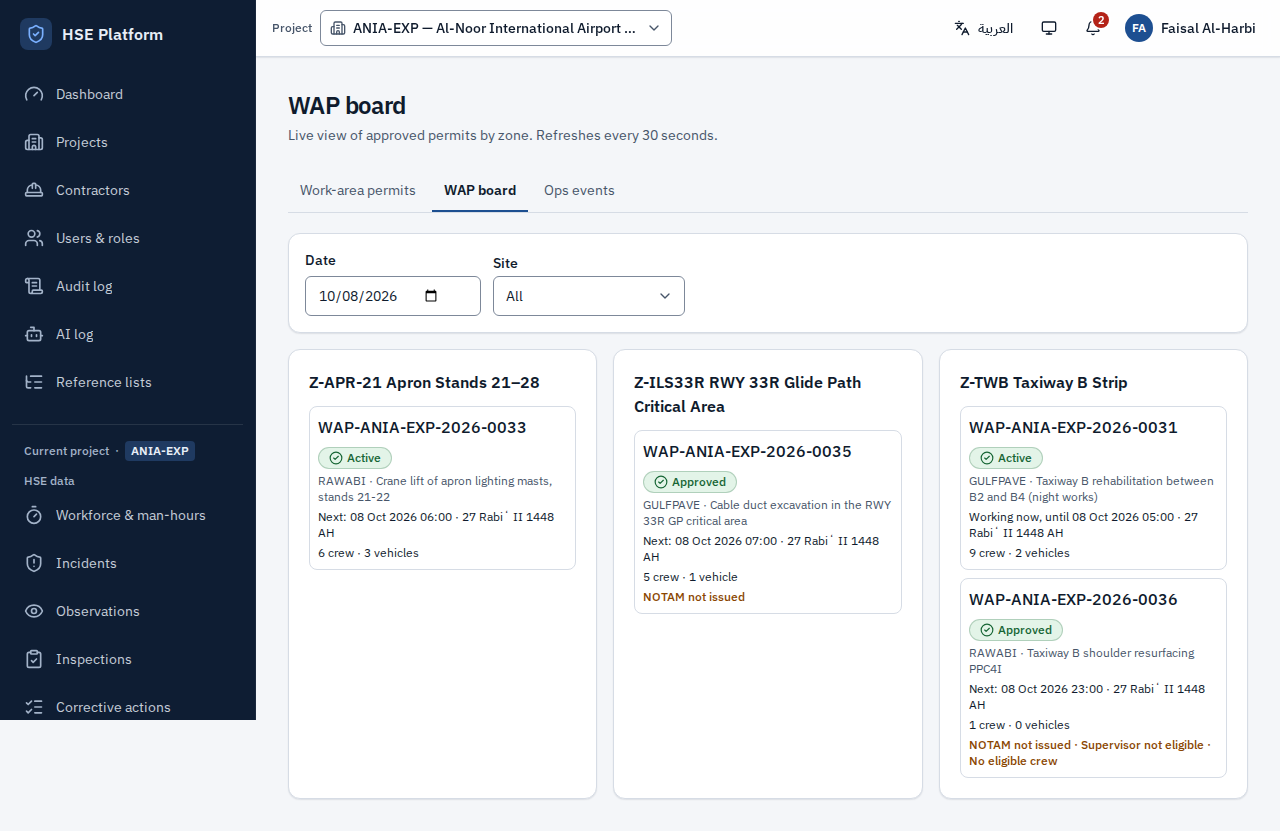
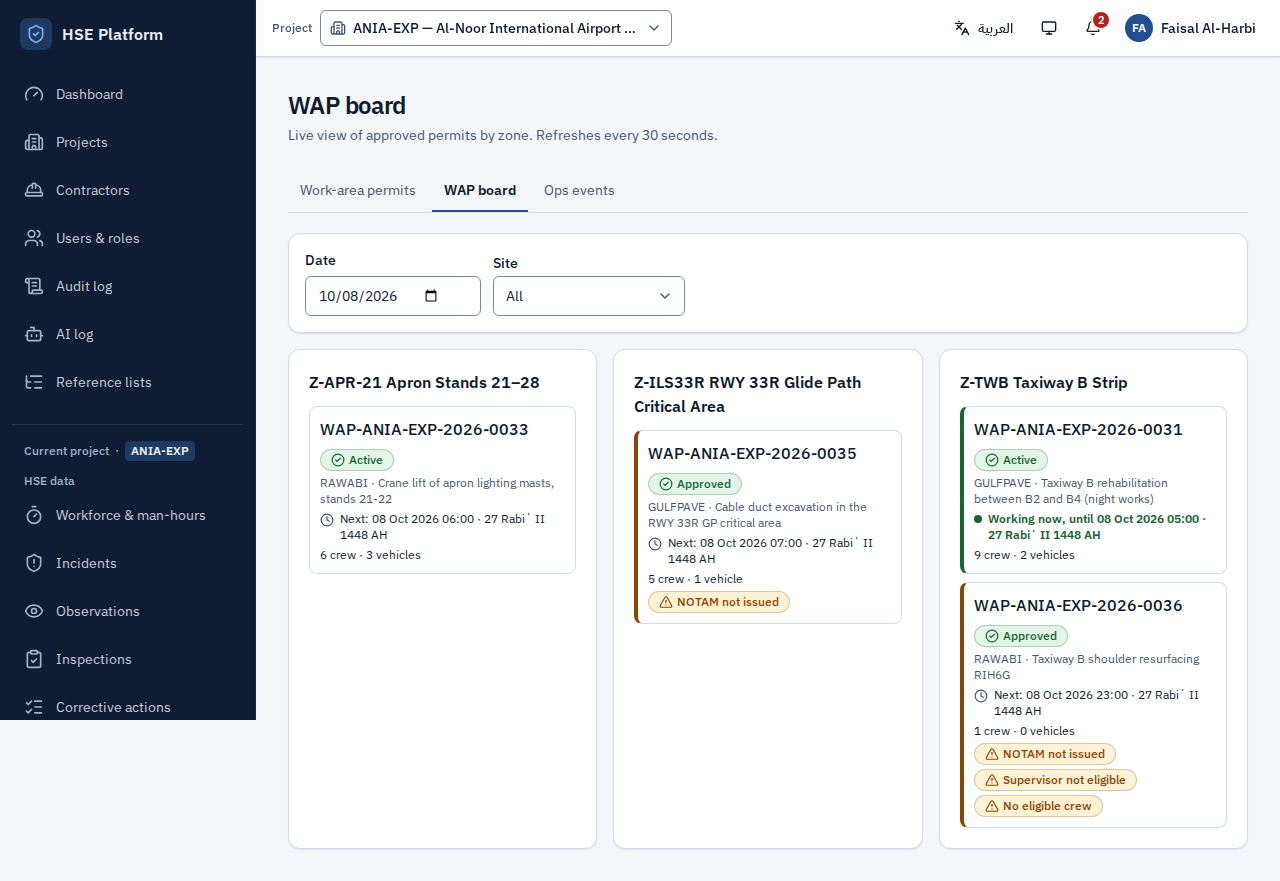
design: access permits design pass (gate verdicts, bilingual prints, RTL charts); fix seeded ADP vehicle classes
Claude-Session: https://claude.ai/code/session_019ePKhVEWcGdEt7YFu3vJZQ

diff --git a/backend/app/seed_access.py b/backend/app/seed_access.py
@@ -71,6 +71,7 @@ from app.core.access_enums import (
     SuspensionState,
     ValidityStatus,
     VehicleCategory,
+    VehicleClass,
     VehicleOwnerType,
     VehicleStatus,
     WapStatus,
@@ -1698,9 +1699,9 @@ def _adp_row(ctx: Ctx, a: AdpSpec) -> dict[str, Any]:
         "deployment_id": p.did,
         "engagement_id": eng.id if eng else None,
         "category": a.category,
-        "vehicle_classes": ["light_vehicle", "pickup"]
+        "vehicle_classes": [VehicleClass.light]
         if p.trade == T.driver
-        else ["paver", "roller", "excavator"],
+        else [VehicleClass.heavy, VehicleClass.special_plant],
         "licence_issuer": LicenceIssuer.ksa,
         "licence_class": a.licence_class,
         "licence_expiry_date": a.licence,

diff --git a/backend/tests/test_access_misc.py b/backend/tests/test_access_misc.py
@@ -171,3 +171,11 @@ def test_worker_photo_rules_and_id_copy_capability(api: Api, db: Session) -> Non
         )
     )
     assert rows
+
+
+def test_seeded_adp_register_lists(api: Api, ids: Ids) -> None:
+    """Regression: seeded ADPs must use valid vehicle classes so the register serialises."""
+    pid = ids.project("ANIA-EXP")
+    res = api.as_("noura.qahtani").get(f"{API}/projects/{pid}/adps")
+    assert res.status_code == 200, res.text
+    assert res.json()["total"] > 0

diff --git a/docs/design/phase-2-findings.md b/docs/design/phase-2-findings.md
@@ -1,0 +1,47 @@
+# Phase 2 design pass: UX findings
+
+Scope: the Phase 2 site / airport access screens — the gate check screen (`/gate`: scanner, verdicts GRANTED / GRANTED_WITH_WARNING / DENIED / PENDING_* with countdown, admitted despite denial, device sign-in, offline), workers (masked ID and unmask dialog, deployment, access card), inductions (signature pad), zone profiles, airport pass setup / applications / passes, ADPs and offences, vehicles, AVPs and sticker, NOTAM requests, obstacle clearances (live preview), WAPs (board, print, ops events), credential lifecycle actions, gates and devices, access settings, gate log, and the dashboard access band with charts C10–C12. Shared components were changed only where a Phase 2 screen needed it and stay consistent with Phases 0–1.
+
+Method: the app ran as a production build against the real backend on a fresh, migrated and seeded database (`hse_design`, `app.seed` incl. the Phase 2 seed). I signed in as Faisal Al-Harbi (HSE Manager) on ANIA-EXP and used the gate screen as a user with `gate.check` on the seeded gates G-ANIA-01 (site gate) and G-AAP3 (airside, three zones). Real verdicts came from seeded subjects while WAP-0031's night window was open: GRANTED (WKR-000001 at the main gate), GRANTED_WITH_WARNING (WAP-0031 crew at Z-TWB, `HOOK_NOT_AVAILABLE`), DENIED with one to five reasons (VEH-0003; WKR-000001 at Z-APR-21), PENDING_ESCORT (WKR-000004). Playwright took the gate in all 8 combinations (EN/AR × desktop 1366 / phone 390 × light/dark) and 36 other screens in 4 (EN desktop light, AR desktop dark, AR phone light, EN phone dark), plus print-media renders and PDFs of the access card, AVP sticker and WAP print. The HSE Officer and Contractor HSE Rep views were covered by the existing e2e role tests; this pass did not change any role-dependent rendering. I loaded the dataviz guidance before touching C10–C12.
+
+Screenshots (`docs/screenshots/phase-2/design/`, 12 files): 01/02 gate "granted with a note" EN phone light, 03/04 gate DENIED (5 reasons) AR phone dark, 05/06 access card (screen before, print after), 07/08 WAP print (EN screen before, AR print after), 09/10 AVP sticker, 11/12 C11 denial reasons in Arabic.
+
+Effort: **S** < 1 h · **M** ≤ 1 day · **L** a redesign that needs the user's approval.
+
+## Ranked findings
+
+| # | Impact | Problem | Where / evidence | Fix | Effort | Status |
+|---|---|---|---|---|---|---|
+| 1 | High | Every clean airside scan shows a full amber panel with an exclamation mark and "GRANTED WITH WARNING" on two lines, then an amber "Check not available yet" card. Until Phase 5 that is *every* airside entry, so guards see a warning on every normal scan (alarm fatigue), and the word that matters ("granted") is lost | `01-before-gate-granted-note-en-mobile-light.png` | The panel stays amber (spec colour) but leads with a **tick** and **GRANTED** in the largest type, then a small "With a note — see below" pill. The `HOOK_NOT_AVAILABLE` reason is shown as a calm neutral **note** (info icon, grey), not an amber warning; real warnings (e.g. expiring in 7 days) stay amber. Reasons are ordered deny → warning → note, and each has a screen-reader prefix (refusal / warning / note) | M | Done |
+| 2 | High | On a phone the verdict sits below the gate and zone pickers, and the fixed thumb bar covers the person card, "Next scan" and "Admitted despite denial" — the guard must scroll with one hand to act | `03-before-gate-denied-ar-mobile-dark.png`, `before/gate-*-mobile-*` | While a result is shown the pickers are hidden (the verdict repeats direction · gate · zone). The result actions are portalled into the thumb bar (56 px buttons) above direction / manual entry / scan. The page reserves the bar's measured height, and the bar respects the phone's safe area | M | Done |
+| 3 | High | Dark mode was half-broken on the gate: reason cards, the "admission recorded" note and the WAP window colours used Tailwind `dark:` classes, which follow the OS, not the app's theme toggle — light pink cards on a dark screen (and the reverse with OS dark + app light) | `before/gate-denied-many-en-mobile-dark.png` | All gate colours now come from tokens (status pairs for reasons, new verdict tokens for the solid panels). No `dark:` classes remain in the frontend | S | Done |
+| 4 | High | Print views were not fit for submission: the access card had no title, no project and a two-calendar date that wrapped; the AVP sticker title was Arabic-only on an Arabic screen; the WAP print was English-only with the status as plain text, no project and no bilingual labels; on a dark screen the cards showed dark placeholders | `05-before-…`, `07-before-…`, `09-before-…` | New shared `AccessPrintHeader` (platform mark, project code and name, title EN on the left / AR on the right; `wide`, `narrow`, `card` variants) and `BiLabel` (bilingual "EN / AR" labels from `accessPrint.*` "EN\|AR" strings). Access card is ID-1 size (86 × 54 mm), fixed LTR layout, both names, worker no., employer, QR, printed ref on a ruled strip, one-calendar issue date, Back button. Sticker: stacked bilingual header, "Scan at the gate", bilingual field list incl. areas (— when none). WAP: bilingual header, big WAP no., boxed status, valid dates, QR panel, bilingual field labels, both scope texts, bilingual crew table header, bilingual footer, full-width on paper. A `.paper` class keeps light tokens on these surfaces in dark mode | M | Done |
+| 5 | Medium | Hard-coded Tailwind colours (`bg-green-700`, `bg-amber-400`, `bg-red-700`, `bg-blue-800`, `bg-slate-*`) on the gate screen, outside the token system | `gate-check.tsx` (58 occurrences) | Verdict tokens in `tokens.css` (`--verdict-granted/note/denied/pending/neutral` + `-fg`), mapped in `globals.css`. They are theme-independent so a verdict looks the same on every gate device; contrast of text on each fill 6.6–10.0:1 | S | Done |
+| 6 | Medium | Gate log: every airside row carries an amber "Check available in a later phase" chip, and "Granted with warning" is an amber badge with an info icon — the log looks like a list of problems | `before/gate-log-en-desktop-light.png` | `ReasonChips`: `HOOK_NOT_AVAILABLE` is a neutral chip with an info icon (also on WAP crew and every other register that uses it); eligibility rows no longer tint hook items amber. The log's "Granted with warning" badge keeps amber but uses a tick (`granted_note` status key) | S | Done |
+| 7 | Medium | Gate log on phones: time / subject / result cells split their parts into separate grid rows of the stacked card, so "Person", the worker no. and the name were scattered and misaligned in Arabic | `before/gate-log-ar-mobile-light.png` | One wrapper per cell (flex column, start-aligned); the subject ref is an isolated `<bdi>`; "Admitted despite denial" gets a shield icon | S | Done |
+| 8 | Medium | C11 "Gate denial reasons" (horizontal bars) is upside-down in Arabic: the largest reason at the bottom. The RTL row reversal meant for time axes also flipped the category order; the shared chart table relied on a second reversal | `11-before-c11-denials-ar-dark.png` | `ChartRenderer` keeps one row order; only vertical (x-axis) plots are reversed in RTL, horizontal bars keep largest-first and mirror only the value axis. Applies to every horizontal bar chart | S | Done |
+| 9 | Medium | WAP board: "Working now" looks like every other line, and blockers on an Approved WAP are a small amber text line | `before/wap-board-en-desktop-light.png` | Working-now cards get a green start bar and a live dot with bold text; next-window lines a clock icon; blockers are amber chips with a warning icon and an amber start bar on the card | S | Done |
+| 10 | Medium | Direction In/Out was shown by fill colour only; the camera close button was 36 px | Gate thumb bar | In/Out have their own icons and a tick on the selected one, 48 px tall; camera close is 44 px | S | Done |
+| 11 | Medium | "Admitted despite denial" was a solid red button the same size and weight as "Next scan", next to it — easy to hit by mistake, and it reads as the primary action | Gate DENIED | Red-outlined secondary button with a shield icon; "Next scan" carries a draining progress line for the 30 s auto-clear and the countdown on a second line (no clipping in Arabic) | S | Done |
+| 12 | Low | Signature pad: a 128 px dashed box on phones with no baseline | Inductions › Record induction | 160 px on phones (128 px from `sm`), a signing baseline with "×", solid border once signed, red border on error; still white paper with a dark pen in dark mode | S | Done |
+| 13 | Low | Dashboard access band: "Ops suspension in force: Yes" was a red chip with text only | Access band | Octagon-alert icon in the chip | S | Done |
+| 14 | Low | Offline screen retry button was a hard-coded white box | Gate offline | Surface-token button, 56 px | S | Done |
+| 15 | Medium | Access settings: the hook requirement lists show every ADP category, every one of ~25 vehicle categories and every crew role with an empty picker each (≈ 6,000 px of mostly "None") | `before/settings-en-desktop-light.png` | Show only categories that have a requirement, with "Add requirement for…" to pick another; collapse each section | L | Proposal P10 |
+| 16 | Medium | The gate verdict colour for "granted with a note" is amber by spec. Even with the tick and "GRANTED" headline, a fully amber screen on every airside scan until Phase 5 is a lot of amber | Gate | Option for the HSE Manager: a green panel with an amber band for the note (the result would then look like GRANTED with an extra line). Changes the spec's colour semantics, so it needs a decision | L | Proposal P11 |
+| 17 | Medium | Register rows and detail fields still wrap the two-calendar dates (gate log time column 4 lines, WAP current/next window) | Gate log, WAP detail, pass application | Phase 0 proposal **P1** (two-line dates), still the main cause of tall rows | L | Proposal P1 |
+| 18 | Low | Long action rows on pass applications (two red buttons side by side: Record refusal, Withdraw) and WAP detail on phones | Pass application, WAP detail | Phase 0 proposal **P2** (sticky phone action bar with a menu) | L | Proposal P2 |
+
+Not changed on purpose:
+- The verdict colours themselves (GRANTED green, GRANTED_WITH_WARNING amber, DENIED red, PENDING blue) follow the spec and the frontend notes; only their presentation changed. Verdict panels are identical in light and dark mode on purpose (a gate tablet should always look the same).
+- Reason codes (e.g. `WAP_MISSING`) stay visible in small muted text under each reason: the guard can read them to the HSE Officer on the phone.
+- Red buttons for ban worker, demobilise, refuse, withdraw and suspend stay (hard-to-undo actions, Phase 0 rule).
+- No business logic, API calls, permissions, KPI values or data were changed; no data field was added to or removed from any screen (the WAP print now shows both scope languages, both of which the page already loaded). All e2e selectors are unchanged.
+
+## Design system additions (Phase 2)
+
+- **Verdict tokens** (`--verdict-granted | note | denied | pending | neutral` and `-fg`), theme-independent solids for full-screen results. Use them only for gate/scan verdicts, never for badges or charts.
+- **Notes vs warnings**: a check that cannot run yet (`HOOK_NOT_AVAILABLE`) is a neutral note with an info icon. Amber is for things that are actually at risk (expiring, escorted, blockers).
+- **Thumb bar**: on one-handed screens the result actions live in the fixed bottom bar; the content reserves the bar's measured height.
+- **Print documents**: `AccessPrintHeader` (`wide` A4, `narrow` sticker, `card` ID-1) + `BiLabel` + `accessPrint.*` "EN|AR" strings; `.paper` keeps light tokens on paper surfaces. Phase 3 permits should reuse them together with the Phase 1 `@media print` rules.
+- **Charts**: horizontal bars keep their order in RTL (largest first); only vertical/time axes mirror.
+- **Status badge key** `granted_note` (amber with a tick).

diff --git a/docs/PROGRESS.md b/docs/PROGRESS.md
@@ -1,13 +1,14 @@
 # Progress
 
 ## Current
-- Phase: 2 — Site / Airport access permits
-- Module: site & airport access permits (spec `docs/specs/2-access-permits.md`)
-- Step: Backend Phase 2 stage 2 done (contract 0.3.1, frontend issues fixed); Frontend Phase 2 built against v0.3.0, e2e green (104 passed); design pass next
+- Phase: 3 — Permit to Work (PTW)
+- Module: PTW (spec `docs/specs/3-ptw.md` v1.0)
+- Step: Contract
 
 ## Phase log
 - Phase 0 — Foundation: built, e2e green, design pass done (2026-10-05). The user asked to continue phase after phase without per-phase approval; open questions are collected below for a single review.
 - Phase 1 — Dashboard (with AI): built, e2e green, design pass done (2026-10-06).
+- Phase 2 — Site / Airport access permits: built, e2e green, design pass done (2026-10-07).
 
 ## Done
 
@@ -202,6 +203,15 @@
 - E2E (Playwright, real backend): full suite 71 passed, 2 skipped (screenshot specs, on demand) on a fresh migrated + seeded DB — 35 Phase 0 + 36 Phase 1 tests in `e2e/p1-*.spec.ts` — dashboard (AC55, 59, 60, 61, 62, 63, 64, filters in URL, drill-down, charts, mobile), AI (AC65, 72, 73, 74, 75, insufficient data, errors, Arabic) via a recorded SSE stream in `e2e/fixtures/ai-stream.ts` (typed against the contract, replayed with `page.route`; test-only), workforce/import (AC2, 3, 4, 7, 10), incidents/PDPL (AC13, 19, 20, 21, 29, 30, 31, 33), CAs (AC40, 41, 42, 43), observations (AC35) and create flows for observations, inspections, meetings, settings, reports. Phase 0 specs unchanged except a wait in AC12 (options load asynchronously).
 - Screenshots: `docs/screenshots/phase-1/` (run `SCREENSHOTS=1 npx playwright test e2e/screenshots-p1.spec.ts`).
 
+### Design pass — Phase 2 (UI/UX Designer)
+- Design pass: done (Phase 2). Findings, ranking and the Phase 2 design-system additions: `docs/design/phase-2-findings.md`; before/after screenshots: `docs/screenshots/phase-2/design/`.
+- Gate screen: "granted with a note" now leads with a tick and GRANTED (amber panel kept, per spec) and a small "With a note" pill; the "training check from Phase 5" reason is a neutral note, not an amber warning; reasons ordered deny → warning → note. While a verdict is up the pickers hide and the result actions (Next scan with a draining 30 s line, Cancel pairing, Admitted despite denial as a red-outlined secondary) sit in the thumb bar. Theme-independent verdict tokens replace raw Tailwind colours; dark mode fixed (the `dark:` classes followed the OS, not the toggle). In/Out with icons, 44–56 px targets.
+- Print: shared bilingual `AccessPrintHeader` + `BiLabel` (`accessPrint.*` "EN|AR"); access card at ID-1 size with fixed LTR layout; AVP sticker with stacked bilingual header and labels; WAP print with bilingual header, labels, crew table and footer, both scope texts. `.paper` keeps them light on a dark screen.
+- Gate log and every register: `HOOK_NOT_AVAILABLE` chips are neutral notes; phone stacked cards keep each cell together. WAP board: working-now and blocker emphasis. C11 (and any horizontal bar chart) keeps largest-first order in Arabic. Signature pad taller on phones with a baseline. Ops-suspension chip has an icon.
+- No business logic, API calls, permissions, KPI values or data shown changed; e2e selectors unchanged. New strings in `scripts/i18n/p2-design.py`.
+- Checks: lint, typecheck, i18n:check and build green; full e2e on a fresh seed 104 passed, 2 skipped (on-demand screenshot specs).
+- Found for the backend (fixed by the lead: seed now uses light / heavy + special_plant; regression test `test_seeded_adp_register_lists`): `GET /projects/{id}/adps` returns 500 on the Phase 2 seed — `ValueError: 'paver' is not a valid VehicleClass` (`app/seed_access.py` ~line 1703 seeds ADP vehicle classes `paver` / `roller` / `excavator`, which are vehicle *categories*). The ADP register shows the error state; `p2-smoke` does not catch it.
+
 ### Design pass — Phase 1 (UI/UX Designer)
 - Design pass: done (Phase 1). Findings, ranking and the Phase 1 design-system additions: `docs/design/phase-1-findings.md`; before/after screenshots: `docs/screenshots/phase-1/design/`.
 - Dashboard now answers "are we safe, and what needs me today?" above the fold: compact period bar (scope filters behind "More filters"), headline band, then "Needs attention" and "Due soon" side by side, then tiles, charts, league table, pyramid and insights.
@@ -302,3 +312,8 @@ L items from the Phase 1 design pass (details in `docs/design/phase-1-findings.m
 - **P7. Default sort and saved views for registers.** The CA list and incident register open on the oldest records (closed 2025 actions first). Proposal: open/overdue first by due date by default, plus one-click views ("My actions", "Overdue", "Awaiting my verification"). Changes the list query (sort parameter), so it needs approval.
 - **P8. KPI tile tiers.** 27 tiles have equal weight. Proposal: a first row of 6 headline KPIs chosen in HSE settings (e.g. LTI, TRIR, HiPo, overdue CAs, inspection compliance, safe %), a "moved most vs previous period" strip, and the rest folded under "All indicators".
 - **P9. Project logo** on the monthly report (and later permits): needs a logo upload on the project (contract change). The print header uses the platform mark until then.
+
+L items from the Phase 2 design pass (details in `docs/design/phase-2-findings.md`):
+- **P10. Access settings: show only the hook requirements that exist.** Today every ADP category, ~25 vehicle categories and every crew role shows an empty picker (≈ 6,000 px of "None"). Proposal: list only categories with a requirement plus "Add requirement for…", each section collapsible.
+- **P11. Colour of "granted with a note" at the gate.** The spec makes GRANTED_WITH_WARNING amber; until Phase 5 that is every clean airside scan. This pass kept amber but leads with a tick and "GRANTED". Option for the HSE Manager: a green panel with an amber note band. Needs a decision because it changes the spec's colour semantics.
+- **P1 / P2 / P9 also apply to Phase 2:** two-calendar dates still wrap in the gate log and WAP windows (P1); pass application and WAP detail have long action rows on phones (P2); the access card, sticker and WAP print use the platform mark until a project logo exists (P9).
